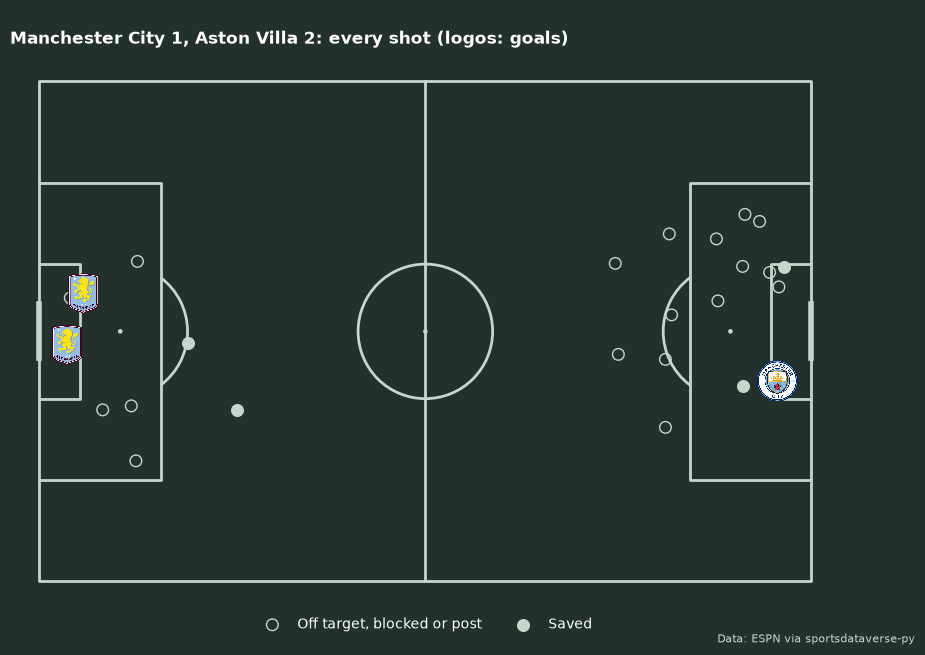
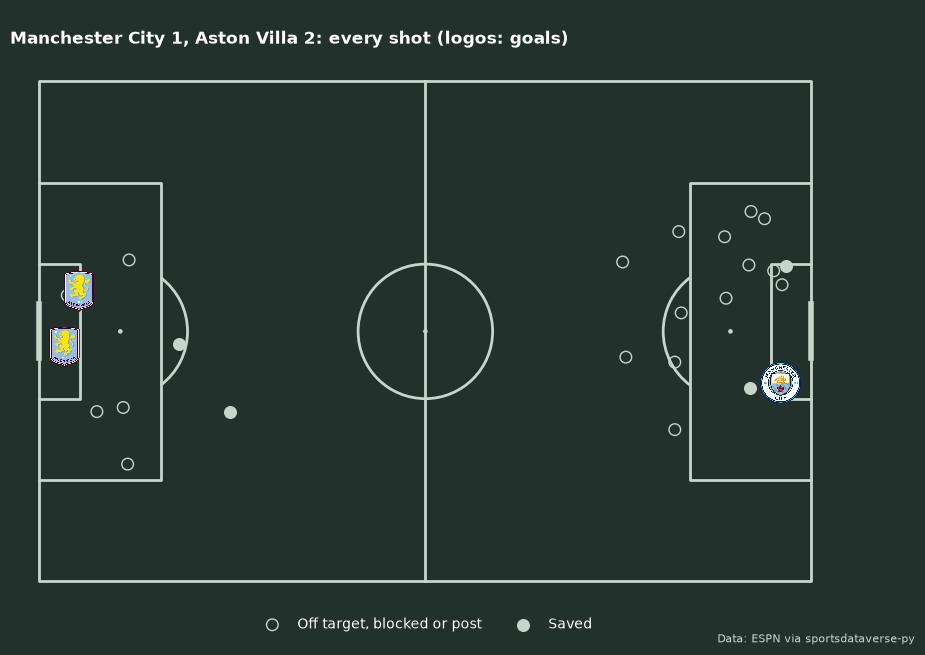
docs(cookbooks): soccer shot maps on pitch_coords, plus a StatsBomb any-provider map

diff --git a/docs/docs/cookbooks/surfaces-and-shot-charts.md b/docs/docs/cookbooks/surfaces-and-shot-charts.md
@@ -7,10 +7,10 @@ description: "Nine recipes for playing surfaces: every sport's surface in team c
 
 # Surfaces and shot charts
 
-Nine recipes for playing surfaces and the charts drawn on them: `surface()` for every sport it supports, team
+Ten recipes for playing surfaces and the charts drawn on them: `surface()` for every sport it supports, team
 colors and a center logo, NBA and WNBA shot charts from the stats-API shot files (converted with
-`court_coords`), a vertical half court, a hockey goal map, a baseball field and a soccer shot map on an
-mplsoccer pitch. Surfaces are drawn by sportypy. The data is one season each from the NFL (nflverse), the NBA, WNBA and college
+`court_coords`), a vertical half court, a hockey goal map, a baseball field and two soccer shot maps,
+one from ESPN and one from StatsBomb, both converted with `pitch_coords`. Surfaces are drawn by sportypy. The data is one season each from the NFL (nflverse), the NBA, WNBA and college
 basketball (hoopR, wehoop and the stats-API shot files the SportsDataverse publishes on GitHub), the NHL
 (fastRhockey) and the Premier League (ESPN), all through sportsdataverse-py; nothing calls stats.nba.com.
 
@@ -297,39 +297,35 @@ plt.show()
 
 ## 9. A soccer shot map on an mplsoccer pitch
 
-For soccer, mplsoccer draws the pitch and sdvplot's logos go on its matplotlib Axes. ESPN's play-by-play gives each
-shot's position relative to the goal the shooter attacks: `field_position_x` is the distance from that goal line as a
-fraction of **half** the pitch (the penalty spot is 0.23), and `field_position_y` runs across it, below 0.5 being the
-shooter's left. An event with no recorded location is `(0, 0)`. The home team shoots right, so the shooter's left is
-the top of the pitch; the away team shoots left, a half-turn of the same picture. Goals are the scorer's logo. The
-Premier League's final day of 2025-26, Manchester City against Aston Villa (ESPN team ids 382 and 362):
+`pitch_coords` converts ESPN's play-by-play to one frame: meters from the center spot on a regulation 105 x 68 m pitch,
+attacking toward +x, +y on the shooter's left. That is mplsoccer's `impect` pitch, so the points go straight on it.
+ESPN records every shot as if its team attacked the same way; `flip` turns the away team's shots half a turn so the
+two sides attack opposite ends, each wing still on its own side. Events with no location come back null. Goals are the
+scorer's logo. The Premier League's final day of 2025-26, Manchester City against Aston Villa (ESPN ids 382 and 362):
 
 ```python
 from mplsoccer import Pitch
 
 EVENT, HOME, AWAY = 740970, "382", "362"
 plays = soccer.espn_soccer_game_plays("eng.1", EVENT, cid=EVENT)
-fx, fy, home = pl.col("field_position_x"), pl.col("field_position_y"), pl.col("team") == HOME
-shots = (
+shots = sdvplot.pitch_coords(
     plays.filter(pl.col("type_text").str.contains("(?i)shot|goal") & (pl.col("type_text") != "Assists Shot"))
-    .filter((fx > 0) | (fy > 0))  # (0, 0) is ESPN's "no location"
     .with_columns(team=pl.col("team_$ref").str.extract(r"/teams/(\d+)"))
-    .with_columns(  # fractions of HALF the pitch from the attacked goal line; home attacks right, away left
-        x=pl.when(home).then(105 - 52.5 * fx).otherwise(52.5 * fx),
-        y=pl.when(home).then(68 * (1 - fy)).otherwise(68 * fy),
-    )
-)
+    .with_columns(away=pl.col("team") != HOME),
+    provider="espn",
+    flip="away",
+).drop_nulls("pitch_x")
 goals = shots.filter(pl.col("scoring_play"))
 on_target = shots.filter(pl.col("type_text") == "Shot On Target")
 other = shots.filter(~pl.col("scoring_play") & (pl.col("type_text") != "Shot On Target"))
 
-pitch = Pitch(pitch_type="custom", pitch_length=105, pitch_width=68, pitch_color="#22312b", line_color="#c7d5cc")
+pitch = Pitch(pitch_type="impect", pitch_color="#22312b", line_color="#c7d5cc")
 fig, ax = pitch.draw(figsize=(10, 6.5))
-pitch.scatter(other["x"], other["y"], s=70, facecolors="none", edgecolors="#c7d5cc", ax=ax,
+pitch.scatter(other["pitch_x"], other["pitch_y"], s=70, facecolors="none", edgecolors="#c7d5cc", ax=ax,
               label="Off target, blocked or post")  # fmt: skip
-pitch.scatter(on_target["x"], on_target["y"], s=70, color="#c7d5cc", ax=ax, label="Saved")
-sdvplot.add_logos(ax, goals["x"], goals["y"], goals["team"], league="soccer", height=0.08, zorder=5)
-sdvplot.add_logos(ax, [8, 97], [74, 74], [AWAY, HOME], league="soccer", height=0.1, zorder=5)
+pitch.scatter(on_target["pitch_x"], on_target["pitch_y"], s=70, color="#c7d5cc", ax=ax, label="Saved")
+sdvplot.add_logos(ax, goals["pitch_x"], goals["pitch_y"], goals["team"], league="soccer", height=0.08, zorder=5)
+sdvplot.add_logos(ax, [-44.5, 44.5], [40, 40], [AWAY, HOME], league="soccer", height=0.1, zorder=5)
 ax.legend(loc="lower center", bbox_to_anchor=(0.5, -0.06), ncols=2, frameon=False, labelcolor="white")
 home_goals = goals.filter(pl.col("team") == HOME).height
 ax.set_title(f"Manchester City {home_goals}, Aston Villa {goals.height - home_goals}: every shot (logos: goals)",
@@ -342,6 +338,45 @@ plt.show()
 <div class="sdv-output">
 
 ![png](surfaces-and-shot-charts_files/surfaces-and-shot-charts_19_0.png)
+
+</div>
+
+## 10. Any provider: a StatsBomb shot map
+
+The same function reads every major provider's frame: Opta and Wyscout (0-100, not to scale), StatsBomb (120 x 80),
+UEFA and Impect, and the tracking providers given the venue's size. Here is StatsBomb's free open data for the 2018
+World Cup final (France 4-2 Croatia, match 8658) on sdvplot's own pitch, `surface("soccer")`, which is the same
+105 x 68 m frame. StatsBomb open data is free for non-commercial use; credit it as below.
+
+```python
+import requests
+
+URL = "https://raw.githubusercontent.com/statsbomb/open-data/master/data/events/8658.json"
+events = requests.get(URL, timeout=60).json()
+sb = pl.DataFrame(
+    [
+        {"team": e["team"]["name"], "x": e["location"][0], "y": e["location"][1],
+         "goal": e["shot"]["outcome"]["name"] == "Goal"}
+        for e in events
+        if e["type"]["name"] == "Shot"
+    ]
+)  # fmt: skip
+sb = sdvplot.pitch_coords(sb.with_columns(croatia=pl.col("team") == "Croatia"), provider="statsbomb", flip="croatia")
+
+ax = sdvplot.surface("soccer")
+for team, color in (("France", "#1f3f8f"), ("Croatia", "#d71920")):
+    t = sb.filter(pl.col("team") == team)
+    ax.scatter(t["pitch_x"], t["pitch_y"], s=[160 if g else 50 for g in t["goal"]], color=color, alpha=0.8,
+               edgecolors="white", zorder=20, label=team)  # fmt: skip
+ax.legend(loc="lower center", bbox_to_anchor=(0.5, -0.12), ncols=2, frameon=False)
+ax.set_title("2018 World Cup final: every shot (large: goals)", fontweight="bold", loc="left")
+ax.figure.text(0.99, 0.01, "Data: StatsBomb open data", ha="right", fontsize=8)
+plt.show()
+```
+
+<div class="sdv-output">
+
+![png](surfaces-and-shot-charts_files/surfaces-and-shot-charts_21_0.png)
 
 </div>
 
